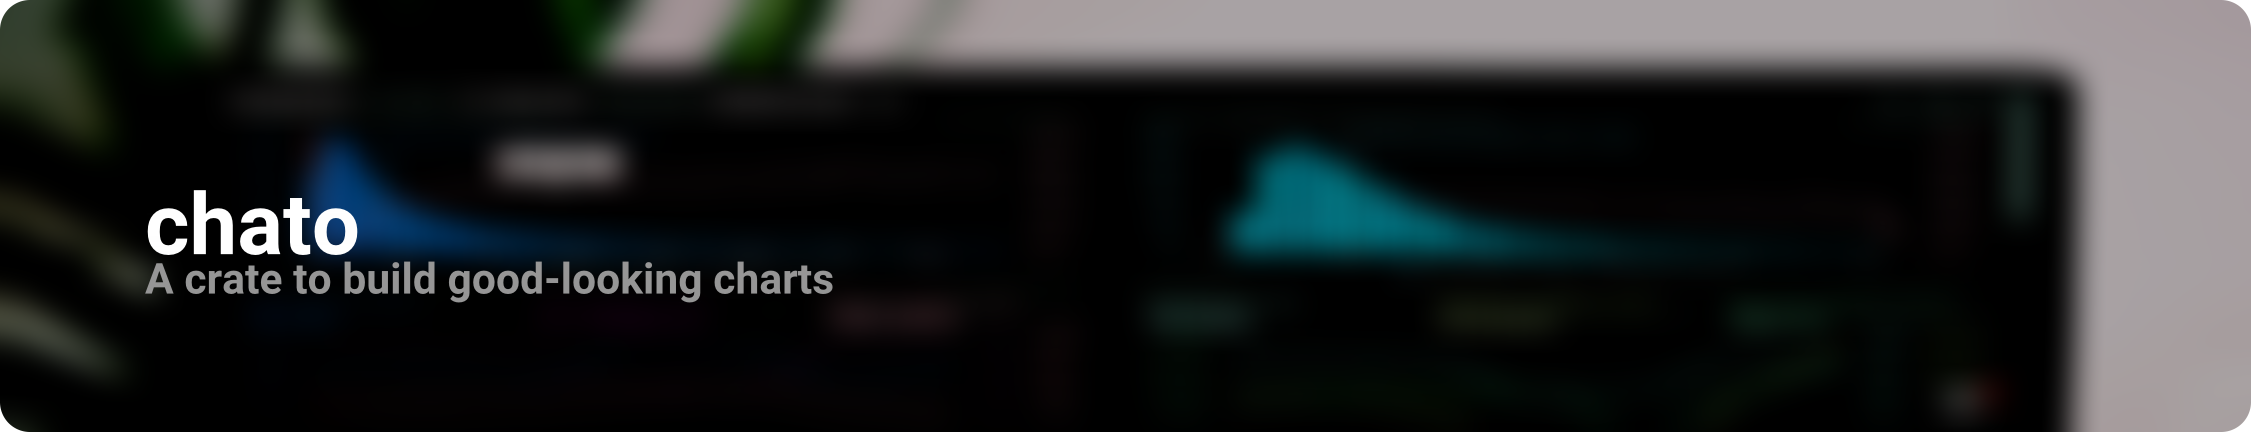
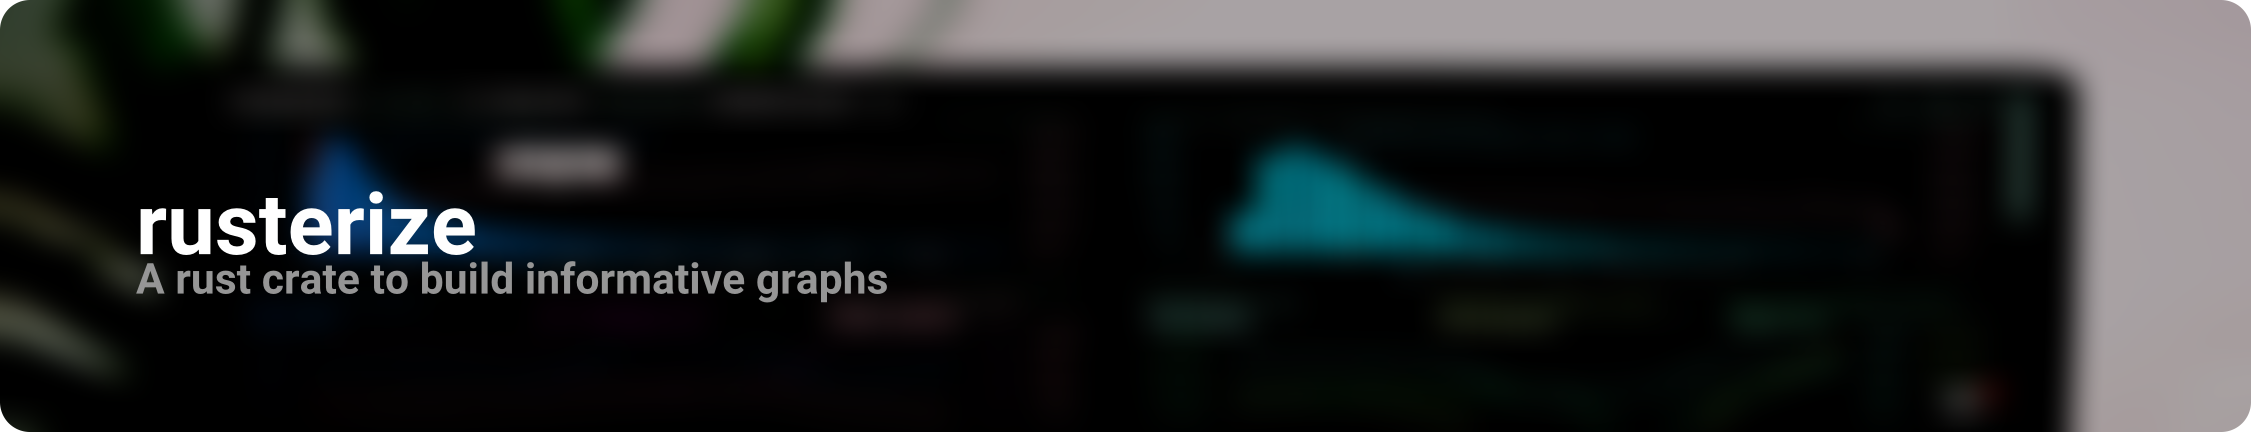
rename to rasterize

Changed region(s): [[0.0622, 0.4514, 0.4043, 0.6921]]

diff --git a/src/charts/scatter.rs b/src/charts/scatter.rs
@@ -11,9 +11,9 @@ pub struct ScatterGraph<'a> {
     title: &'a str,
     x_axis_text: &'a str,
     y_axis_text: &'a str,
-    x_labels: Vec<&'a str>,
-    y_labels: Vec<&'a str>,
-    data: Vec<(String, String)>
+    x_labels: Vec<f32>,
+    y_labels: Vec<f32>,
+    data: Vec<(f32, f32)>
 }
 
 impl<'a> Default for ScatterGraph<'a> {
@@ -36,7 +36,7 @@ impl<'a> ScatterGraph<'a> {
 
     pub fn load_data<T>(mut self, data: Vec<(T, T)>) -> Self 
     where
-        T: Into<String>,
+        T: Into<f32>,
     {
         let mut transformed = vec![];
         for (x, y) in data {
@@ -61,7 +61,7 @@ impl<'a> ScatterGraph<'a> {
         self
     }
 
-    pub fn set_labels(mut self, x_labels: Vec<&'a str>, y_labels: Vec<&'a str>) -> Self {
+    pub fn set_labels(mut self, x_labels: Vec<f32>, y_labels: Vec<f32>) -> Self {
         self.x_labels = x_labels;
         self.y_labels = y_labels;
 
@@ -131,6 +131,7 @@ impl<'a> ScatterGraph<'a> {
         // lets iterate through the y labels and draw them on now
         // focused_loc is the location we are currently looking at on the graph
         for label in self.y_labels {
+            let label_string = label.to_string();
             let (focused_loc_x, focused_loc_y) = focused_loc;
             // first we'll draw a line indicating the real position of the number
             // tick size - 5
@@ -149,7 +150,7 @@ impl<'a> ScatterGraph<'a> {
             let tick_end = (focused_loc_x - tick_size, focused_loc_y - mid);
             drawing::draw_line_segment_mut(&mut canvas, tick_start, tick_end, text_color);
 
-            y_ticks.insert(label.into(), focused_loc_y - mid);
+            y_ticks.insert(label_string.clone(), focused_loc_y - mid);
             
             /*
             Drawing on the text will be slightly different.
@@ -164,7 +165,7 @@ impl<'a> ScatterGraph<'a> {
             4) Running through step 3 makes sure that the center of the label is actually aligned with the tick,
             however, it'll still be overlapping. To fix this, we'll decrease its x-component by the text-width
             */
-            let (text_width, text_height) = drawing::text_size(label_scale, &font, label);
+            let (text_width, text_height) = drawing::text_size(label_scale, &font, &label_string);
             let rough_center = text_height / 2;
             let (text_location_x, text_location_y) = ((tick_end.0 - text_width as f32), (tick_end.1 - rough_center as f32));
 
@@ -175,7 +176,7 @@ impl<'a> ScatterGraph<'a> {
                 text_location_y as i32,
                 label_scale,
                 &font,
-                label
+                &label_string
             );
 
             // Now we just increment focused_loc to the new position we want to focus on
@@ -195,6 +196,7 @@ impl<'a> ScatterGraph<'a> {
         let max_x_pixels = (400 / &self.x_labels.len()) as f32;
 
         for label in self.x_labels {
+            let label_string = label.to_string();
             let (focused_loc_x, focused_loc_y) = focused_loc;
             // again first, we need to draw on a tick
             /*
@@ -215,7 +217,7 @@ impl<'a> ScatterGraph<'a> {
                 tick_end,
                 text_color
             );
-            x_ticks.insert(label.into(), focused_loc_x + mid);
+            x_ticks.insert(label_string.clone(), focused_loc_x + mid);
 
             /*
             Drawing text on is slightly different from how we drew on our y-axis text
@@ -227,7 +229,7 @@ impl<'a> ScatterGraph<'a> {
             4) An easy way to do this is to calculate the text width, and divide by 2 to get an offset value
             5) Offset its x-component by decreasing it by this offset value
             */
-            let (text_width, _) = drawing::text_size(label_scale, &font, label);
+            let (text_width, _) = drawing::text_size(label_scale, &font, label_string.as_str());
             let offset_value = text_width / 2;
             let (text_location_x, text_location_y) = tick_end;
             let text_location_x = text_location_x - offset_value as f32;
@@ -238,7 +240,7 @@ impl<'a> ScatterGraph<'a> {
                 text_location_y as i32,
                 label_scale,
                 &font,
-                label
+                &label_string
             );
 
             // increment focused_loc on its x-component by incrementing by max_x_pixels
@@ -268,7 +270,11 @@ impl<'a> ScatterGraph<'a> {
         // now for the most important part
         // actually plotting positions
         let mut existing_positions = HashMap::new();
+        println!("{:?}\n\n{:?}", x_ticks, y_ticks);
         for (x, y) in self.data {
+            let x = x.to_string();
+            let y = y.to_string();
+            println!("{}, {}", x, y);
             let x_pos = x_ticks[&x] as i32; // shouldn't error
             let y_pos = y_ticks[&y] as i32;
             // if the position already exists, that means its a duplicate set of data

diff --git a/src/lib.rs b/src/lib.rs
@@ -3,42 +3,33 @@ pub mod error;
 
 #[cfg(test)]
 mod tests {
-    use rand::Rng;
-
     use crate::{charts::scatter::ScatterGraph, error::ChartResult};
 
     #[test]
     fn scatter_builder_numbers() -> ChartResult<()> {
-        let mut data = Vec::new();
-        let mut rng = rand::thread_rng();
-        for _ in 0..100 {
-            let gcse_grade = rng.gen_range(1..9).to_string();
-            let ib_grade = rng.gen_range(1..7).to_string();
-            data.push((gcse_grade, ib_grade));
-        }
         ScatterGraph::build()
             .set_title("Number Labels")
             .set_axis_text("GCSE Grades", "IB Grades")
             .set_labels(
-                vec!["1", "2", "3", "4", "5", "6", "7", "8", "9"],
-                vec!["1", "2", "3", "4", "5", "6", "7"]
+                vec![1.0, 2.0, 3.0, 4.0, 5.0, 6.0, 7.0, 8.0, 9.0],
+                vec![1.0, 2.0, 3.0, 4.0, 5.0, 6.0, 7.0]
             )
-            .load_data(data)
+            .load_data(vec![(1.0, 2.0), (5.0, 4.0), (1.0, 2.0)])
             .draw("tests/numbers.png")?;
 
         Ok(())
     }
-    #[test]
-    fn scatter_builder_text() -> ChartResult<()> {
-        ScatterGraph::build()
-            .set_title("Text Labels")
-            .set_axis_text("GCSE Grades", "IB Grades")
-            .set_labels(
-                vec!["One", "Two", "Three", "Four", "Five", "Six", "Seven", "Eight", "Nine"],
-                vec!["One", "Two", "Three", "Four", "Five", "Six", "Seven"]
-            )
-            .draw("tests/text.png")?;
+    // #[test]
+    // fn scatter_builder_text() -> ChartResult<()> {
+    //     ScatterGraph::build()
+    //         .set_title("Text Labels")
+    //         .set_axis_text("GCSE Grades", "IB Grades")
+    //         .set_labels(
+    //             vec!["One", "Two", "Three", "Four", "Five", "Six", "Seven", "Eight", "Nine"],
+    //             vec!["One", "Two", "Three", "Four", "Five", "Six", "Seven"]
+    //         )
+    //         .draw("tests/text.png")?;
 
-        Ok(())
-    }
+    //     Ok(())
+    // }
 }

diff --git a/README.md b/README.md
@@ -1,8 +1,6 @@
-<img src=".github/banner.png" alt="Chato">
+<img src=".github/banner.png" alt="Rusterize">
 
-## What is Chato?
-Chato is a project I'm working on to build good-looking charts in Rust. This crate is inspired by matplotlib, but doesn't necessarily aim to replace its capabilities.
+## What is Rusterize?
+Rusterize is a project I'm working on to build good-looking charts in Rust. This crate is inspired by matplotlib, but doesn't necessarily aim to replace its capabilities.
 
-Chato is a heavy WIP. Feel free to contribute if you have time.
-
-*Chato is just japanese for Chart. (`チャート` - `Chāto`)*
+Rusterize is a heavy WIP. Feel free to contribute if you have time.
